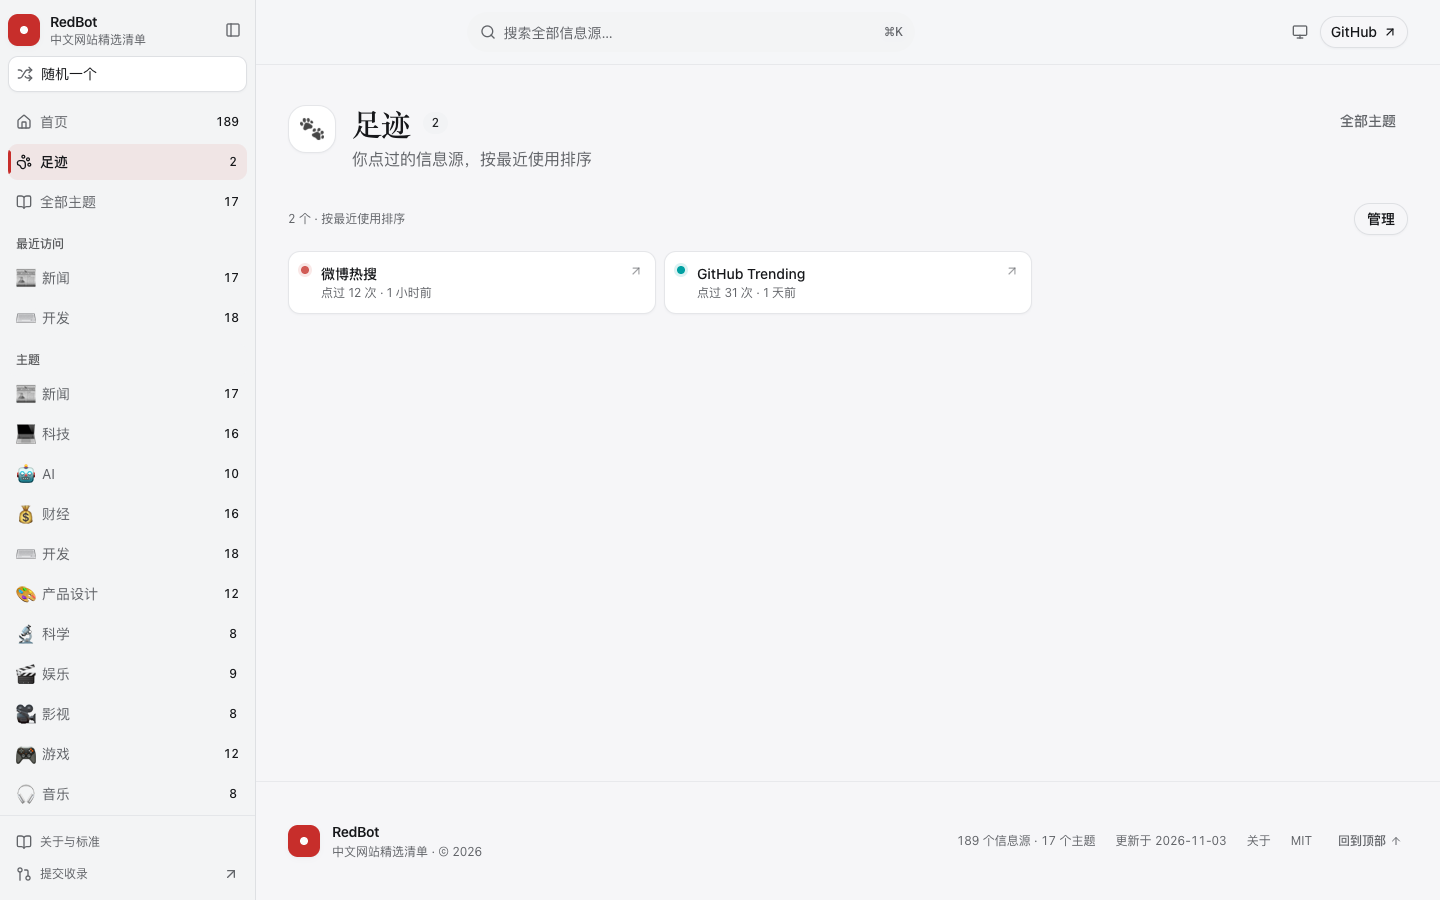
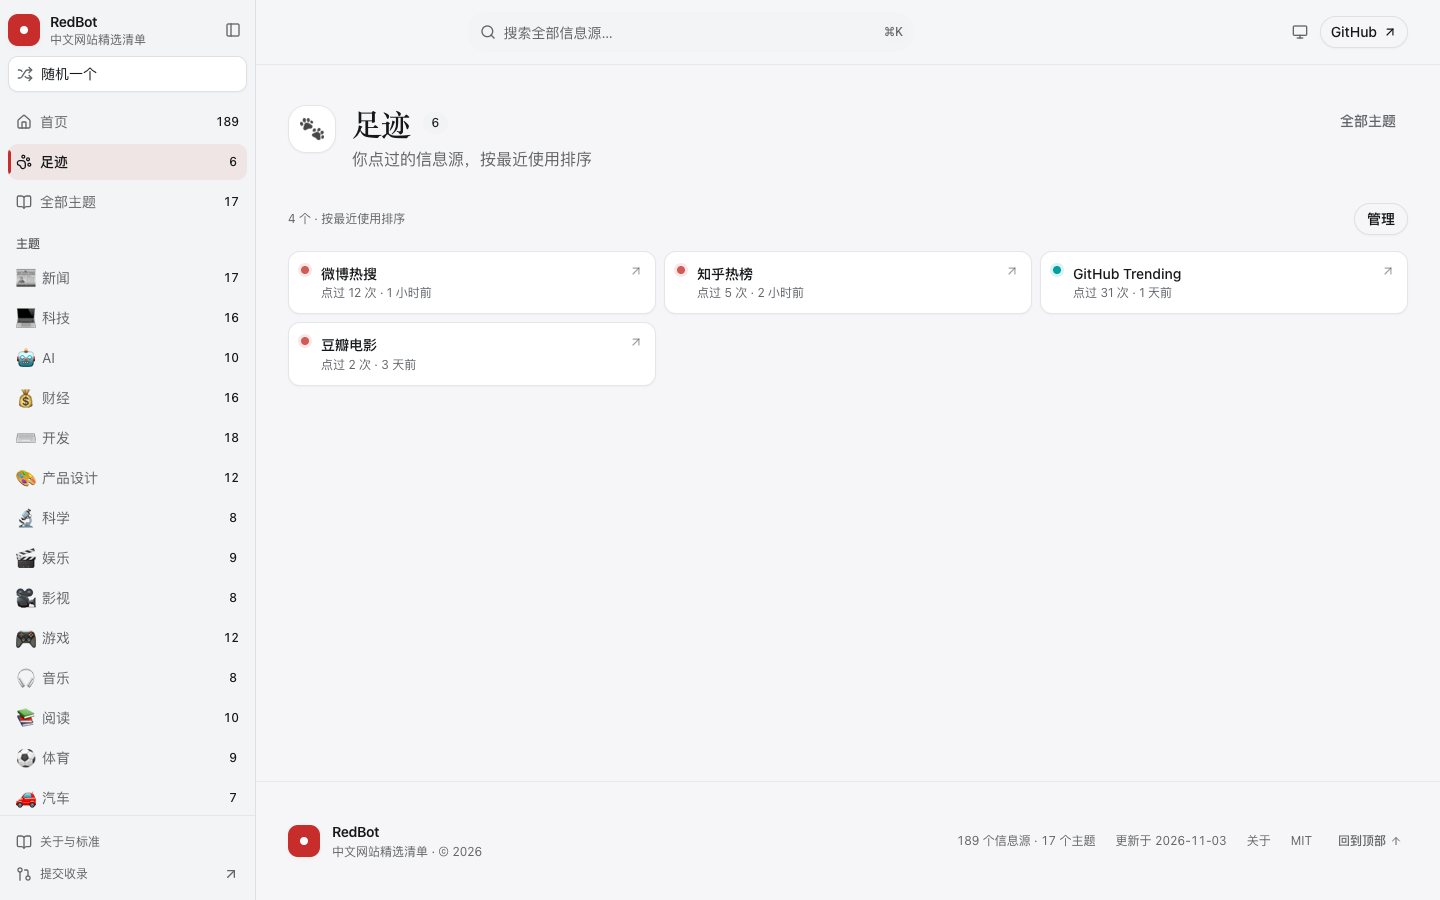
refactor(sidebar): 去掉重复的最近访问分组，重拍全站截图

diff --git a/src/components/app-sidebar.tsx b/src/components/app-sidebar.tsx
@@ -67,18 +67,6 @@ export function AppSidebar({
   const { isMobile, setOpenMobile } = useSidebar();
   const { entries } = useHistory();
 
-  // 最近访问的主题：足迹里现在带了 topic slug，不再需要 id→topic 的全量映射
-  const recentTopics: TopicSummary[] = [];
-  const seenRecent = new Set<string>();
-  for (const entry of entries) {
-    if (!entry.topic || seenRecent.has(entry.topic)) continue;
-    const topic = topics.find((item) => item.slug === entry.topic);
-    if (!topic) continue;
-    seenRecent.add(entry.topic);
-    recentTopics.push(topic);
-    if (recentTopics.length === 3) break;
-  }
-
   function closeOnMobile() {
     if (isMobile) setOpenMobile(false);
   }
@@ -197,26 +185,6 @@ export function AppSidebar({
             </nav>
           </SidebarGroupContent>
         </SidebarGroup>
-
-        {recentTopics.length > 0 ? (
-          // 移动端抽屉里主题列表本来就短，最近访问会和下面的列表重复出现，只在桌面显示
-          <SidebarGroup className="hidden py-0 md:flex">
-            <SidebarGroupLabel className="text-xs">最近访问</SidebarGroupLabel>
-            <SidebarGroupContent>
-              <SidebarMenu>
-                {recentTopics.map((topic) => (
-                  <TopicMenuItem
-                    key={topic.slug}
-                    topic={topic}
-                    active={active}
-                    onSelect={select}
-                    onPrefetch={() => router.prefetch(`/topics/${topic.slug}/`)}
-                  />
-                ))}
-              </SidebarMenu>
-            </SidebarGroupContent>
-          </SidebarGroup>
-        ) : null}
 
         <SidebarGroup className="py-0">
           <SidebarGroupLabel className="sticky top-0 z-10 bg-sidebar text-xs">

diff --git a/AGENTS.md b/AGENTS.md
@@ -163,7 +163,8 @@ data/topics/ai.json        { name, emoji, desc, updated, links: […] }   一个
   三列在 1160px 容器里刚好 373px 一列，中文名不会截断，右缘自然齐边。
   行高 48px（含说明 62px），hover 只换底色/边框并升到 `shadow-sm`，**不做位移**。
 - **每张卡内部是 `justify-between` 的两端结构**：色点与文字贴左、箭头钉在右缘，不要改回居中。
-- **侧栏**：品牌行 + 折叠按钮 → 「随机一个」→ 首页 / 足迹 / 全部主题 → 最近访问 → 吸顶「主题」→ 页脚。
+- **侧栏**：品牌行 + 折叠按钮 → 「随机一个」→ 首页 / 足迹 / 全部主题 → 吸顶「主题」→ 页脚。
+  **不要加「最近访问」分组**：17 个主题一屏能看完，重复出现同一批名字只会让人以为列表坏了。
   计数用 `SidebarMenuBadge`，当前项左侧有 3px 红色竖条（`before:` 伪元素），
   这是全站唯一用红色标记位置的元素。桌面可折叠成图标轨（`collapsible="icon"`）。
   主题顺序即 `data/topics.json` 的顺序，**调整顺序会改变全站配色**，这不是 bug。
